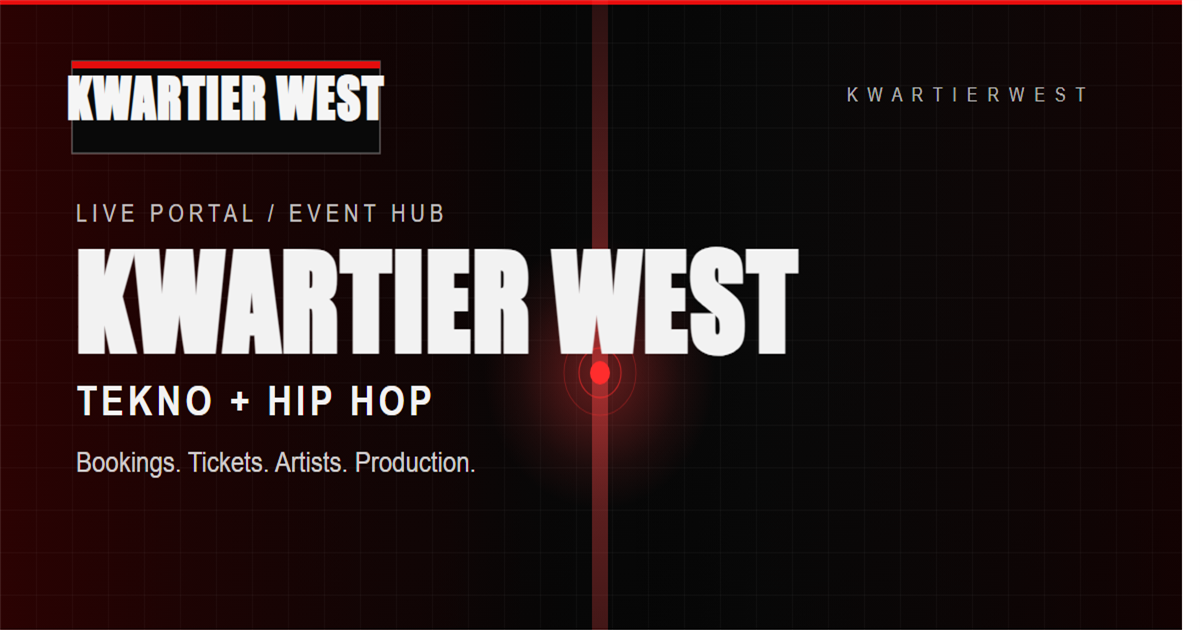
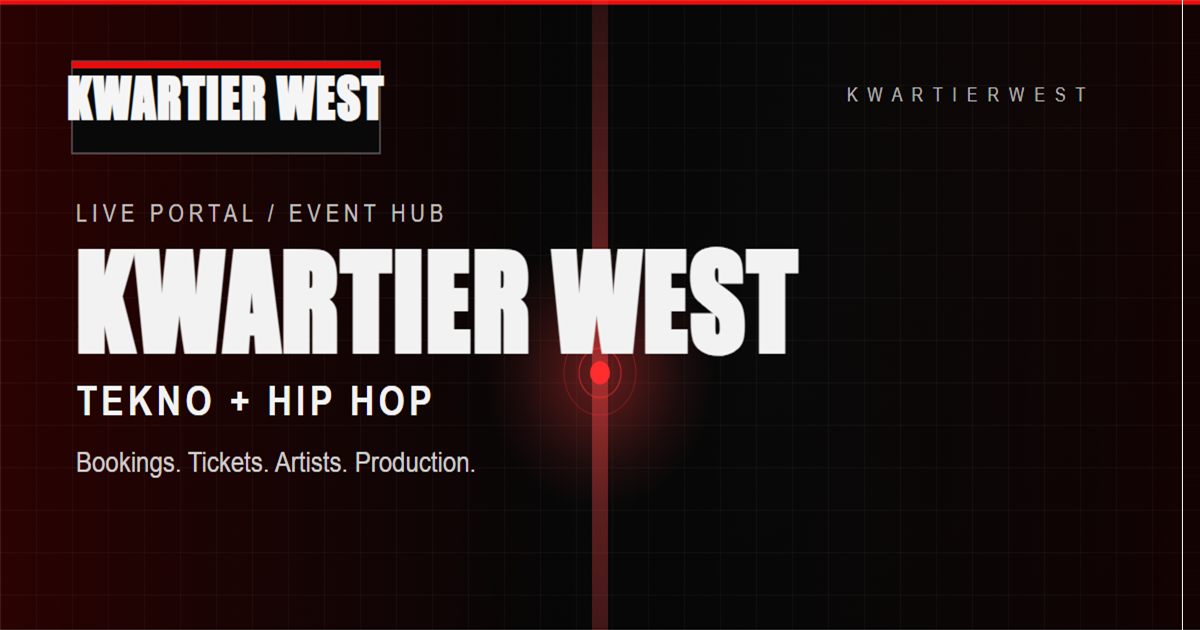
Fix OG right-edge artifact and unify OG metadata URLs

Changed region(s): [[0.9867, 0.0, 1.0, 1.0]]

diff --git a/pages/events/index.html b/pages/events/index.html
@@ -9,7 +9,8 @@
   <meta property="og:site_name" content="Kwartier West">
   <meta property="og:title" content="Kwartier West - Evenementen">
   <meta property="og:description" content="Evenementenhub met Tekno- en Hip hop-line-ups, tickets en officiele sociale bronnen.">
-  <meta property="og:image" content="/assets/og/og-cover.png">
+  <meta property="og:url" content="http://kwartierwest.be/pages/events/index.html">
+  <meta property="og:image" content="http://kwartierwest.be/assets/og/og-cover.png?v=20260225f">
   <meta property="og:image:type" content="image/png">
   <meta property="og:image:width" content="1200">
   <meta property="og:image:height" content="630">
@@ -17,7 +18,8 @@
   <meta name="twitter:card" content="summary_large_image">
   <meta name="twitter:title" content="Kwartier West - Evenementen">
   <meta name="twitter:description" content="Evenementenhub met Tekno- en Hip hop-line-ups, tickets en officiele sociale bronnen.">
-  <meta name="twitter:image" content="/assets/og/og-cover.png">
+  <meta name="twitter:image" content="http://kwartierwest.be/assets/og/og-cover.png?v=20260225f">
+  <link rel="canonical" href="http://kwartierwest.be/pages/events/index.html">
   <link rel="stylesheet" href="../../css/base.css?v=20260224j">
   <link rel="stylesheet" href="../../css/events.css?v=20260224a">
 </head>

diff --git a/index.html b/index.html
@@ -9,7 +9,8 @@
   <meta property="og:site_name" content="Kwartier West">
   <meta property="og:title" content="Kwartier West">
   <meta property="og:description" content="Kwartier West: Tekno- en Hip hop-collectieven, evenementen, boekingen en merch.">
-  <meta property="og:image" content="/assets/og/og-cover.png">
+  <meta property="og:url" content="http://kwartierwest.be/">
+  <meta property="og:image" content="http://kwartierwest.be/assets/og/og-cover.png?v=20260225f">
   <meta property="og:image:type" content="image/png">
   <meta property="og:image:width" content="1200">
   <meta property="og:image:height" content="630">
@@ -17,7 +18,8 @@
   <meta name="twitter:card" content="summary_large_image">
   <meta name="twitter:title" content="Kwartier West">
   <meta name="twitter:description" content="Kwartier West: Tekno- en Hip hop-collectieven, evenementen, boekingen en merch.">
-  <meta name="twitter:image" content="/assets/og/og-cover.png">
+  <meta name="twitter:image" content="http://kwartierwest.be/assets/og/og-cover.png?v=20260225f">
+  <link rel="canonical" href="http://kwartierwest.be/">
   <link rel="icon" href="/favicon.ico">
   <link rel="icon" type="image/png" sizes="32x32" href="/assets/icons/favicon-32x32.png">
   <link rel="icon" type="image/png" sizes="16x16" href="/assets/icons/favicon-16x16.png">

diff --git a/pages/booking/index.html b/pages/booking/index.html
@@ -9,7 +9,8 @@
   <meta property="og:site_name" content="Kwartier West">
   <meta property="og:title" content="Kwartier West - Centrale boekingsdesk">
   <meta property="og:description" content="Centrale boekingsdesk voor Tekno, Hip hop en volledige labelovernames.">
-  <meta property="og:image" content="/assets/og/og-cover.png">
+  <meta property="og:url" content="http://kwartierwest.be/pages/booking/index.html">
+  <meta property="og:image" content="http://kwartierwest.be/assets/og/og-cover.png?v=20260225f">
   <meta property="og:image:type" content="image/png">
   <meta property="og:image:width" content="1200">
   <meta property="og:image:height" content="630">
@@ -17,7 +18,8 @@
   <meta name="twitter:card" content="summary_large_image">
   <meta name="twitter:title" content="Kwartier West - Centrale boekingsdesk">
   <meta name="twitter:description" content="Centrale boekingsdesk voor Tekno, Hip hop en volledige labelovernames.">
-  <meta name="twitter:image" content="/assets/og/og-cover.png">
+  <meta name="twitter:image" content="http://kwartierwest.be/assets/og/og-cover.png?v=20260225f">
+  <link rel="canonical" href="http://kwartierwest.be/pages/booking/index.html">
   <link rel="stylesheet" href="../../css/base.css?v=20260224j">
 </head>
 <body class="kw-page">

diff --git a/pages/partners/index.html b/pages/partners/index.html
@@ -9,7 +9,8 @@
   <meta property="og:site_name" content="Kwartier West">
   <meta property="og:title" content="Kwartier West - Partners">
   <meta property="og:description" content="Vertrouwde partners van Kwartier West voor productie, visuals, sound en werking.">
-  <meta property="og:image" content="/assets/og/og-cover.png">
+  <meta property="og:url" content="http://kwartierwest.be/pages/partners/index.html">
+  <meta property="og:image" content="http://kwartierwest.be/assets/og/og-cover.png?v=20260225f">
   <meta property="og:image:type" content="image/png">
   <meta property="og:image:width" content="1200">
   <meta property="og:image:height" content="630">
@@ -17,7 +18,8 @@
   <meta name="twitter:card" content="summary_large_image">
   <meta name="twitter:title" content="Kwartier West - Partners">
   <meta name="twitter:description" content="Vertrouwde partners van Kwartier West voor productie, visuals, sound en werking.">
-  <meta name="twitter:image" content="/assets/og/og-cover.png">
+  <meta name="twitter:image" content="http://kwartierwest.be/assets/og/og-cover.png?v=20260225f">
+  <link rel="canonical" href="http://kwartierwest.be/pages/partners/index.html">
   <link rel="stylesheet" href="../../css/base.css?v=20260224j">
 </head>
 <body class="kw-page">

diff --git a/pages/hiphop/index.html b/pages/hiphop/index.html
@@ -9,7 +9,8 @@
   <meta property="og:site_name" content="Kwartier West">
   <meta property="og:title" content="Kwartier West - Hip hop">
   <meta property="og:description" content="Hip hop-collectief van Kwartier West: artiesten, evenementen en boekingen.">
-  <meta property="og:image" content="/assets/og/og-cover.png">
+  <meta property="og:url" content="http://kwartierwest.be/pages/hiphop/index.html">
+  <meta property="og:image" content="http://kwartierwest.be/assets/og/og-cover.png?v=20260225f">
   <meta property="og:image:type" content="image/png">
   <meta property="og:image:width" content="1200">
   <meta property="og:image:height" content="630">
@@ -17,7 +18,8 @@
   <meta name="twitter:card" content="summary_large_image">
   <meta name="twitter:title" content="Kwartier West - Hip hop">
   <meta name="twitter:description" content="Hip hop-collectief van Kwartier West: artiesten, evenementen en boekingen.">
-  <meta name="twitter:image" content="/assets/og/og-cover.png">
+  <meta name="twitter:image" content="http://kwartierwest.be/assets/og/og-cover.png?v=20260225f">
+  <link rel="canonical" href="http://kwartierwest.be/pages/hiphop/index.html">
   <link rel="stylesheet" href="../../css/base.css?v=20260224j">
 </head>
 <body class="kw-page kw-side-hiphop">

diff --git a/pages/contact/index.html b/pages/contact/index.html
@@ -9,7 +9,8 @@
   <meta property="og:site_name" content="Kwartier West">
   <meta property="og:title" content="Kwartier West - Contact">
   <meta property="og:description" content="Contacteer Kwartier West voor boekingen, partnerschappen en productievragen.">
-  <meta property="og:image" content="/assets/og/og-cover.png">
+  <meta property="og:url" content="http://kwartierwest.be/pages/contact/index.html">
+  <meta property="og:image" content="http://kwartierwest.be/assets/og/og-cover.png?v=20260225f">
   <meta property="og:image:type" content="image/png">
   <meta property="og:image:width" content="1200">
   <meta property="og:image:height" content="630">
@@ -17,7 +18,8 @@
   <meta name="twitter:card" content="summary_large_image">
   <meta name="twitter:title" content="Kwartier West - Contact">
   <meta name="twitter:description" content="Contacteer Kwartier West voor boekingen, partnerschappen en productievragen.">
-  <meta name="twitter:image" content="/assets/og/og-cover.png">
+  <meta name="twitter:image" content="http://kwartierwest.be/assets/og/og-cover.png?v=20260225f">
+  <link rel="canonical" href="http://kwartierwest.be/pages/contact/index.html">
   <link rel="stylesheet" href="../../css/base.css?v=20260224j">
 </head>
 <body class="kw-page">

diff --git a/pages/hiphop/booking.html b/pages/hiphop/booking.html
@@ -9,7 +9,8 @@
   <meta property="og:site_name" content="Kwartier West">
   <meta property="og:title" content="Kwartier West - Hip hop boeking">
   <meta property="og:description" content="Boek Hip hop-artiesten of het volledige Hip hop-collectief.">
-  <meta property="og:image" content="/assets/og/og-cover.png">
+  <meta property="og:url" content="http://kwartierwest.be/pages/hiphop/booking.html">
+  <meta property="og:image" content="http://kwartierwest.be/assets/og/og-cover.png?v=20260225f">
   <meta property="og:image:type" content="image/png">
   <meta property="og:image:width" content="1200">
   <meta property="og:image:height" content="630">
@@ -17,7 +18,8 @@
   <meta name="twitter:card" content="summary_large_image">
   <meta name="twitter:title" content="Kwartier West - Hip hop boeking">
   <meta name="twitter:description" content="Boek Hip hop-artiesten of het volledige Hip hop-collectief.">
-  <meta name="twitter:image" content="/assets/og/og-cover.png">
+  <meta name="twitter:image" content="http://kwartierwest.be/assets/og/og-cover.png?v=20260225f">
+  <link rel="canonical" href="http://kwartierwest.be/pages/hiphop/booking.html">
   <link rel="stylesheet" href="../../css/base.css?v=20260224j">
 </head>
 <body class="kw-page kw-side-hiphop">

diff --git a/pages/tekno/index.html b/pages/tekno/index.html
@@ -9,7 +9,8 @@
   <meta property="og:site_name" content="Kwartier West">
   <meta property="og:title" content="Kwartier West - Tekno">
   <meta property="og:description" content="Tekno-collectief van Kwartier West: artiesten, evenementen en boekingen.">
-  <meta property="og:image" content="/assets/og/og-cover.png">
+  <meta property="og:url" content="http://kwartierwest.be/pages/tekno/index.html">
+  <meta property="og:image" content="http://kwartierwest.be/assets/og/og-cover.png?v=20260225f">
   <meta property="og:image:type" content="image/png">
   <meta property="og:image:width" content="1200">
   <meta property="og:image:height" content="630">
@@ -17,7 +18,8 @@
   <meta name="twitter:card" content="summary_large_image">
   <meta name="twitter:title" content="Kwartier West - Tekno">
   <meta name="twitter:description" content="Tekno-collectief van Kwartier West: artiesten, evenementen en boekingen.">
-  <meta name="twitter:image" content="/assets/og/og-cover.png">
+  <meta name="twitter:image" content="http://kwartierwest.be/assets/og/og-cover.png?v=20260225f">
+  <link rel="canonical" href="http://kwartierwest.be/pages/tekno/index.html">
   <link rel="stylesheet" href="../../css/base.css?v=20260224j">
 </head>
 <body class="kw-page kw-side-tekno">

diff --git a/pages/hiphop/artist.html b/pages/hiphop/artist.html
@@ -9,7 +9,8 @@
   <meta property="og:site_name" content="Kwartier West">
   <meta property="og:title" content="Kwartier West - Hip hop artiest">
   <meta property="og:description" content="Detailpagina van Hip hop-artiest binnen Kwartier West.">
-  <meta property="og:image" content="/assets/og/og-cover.png">
+  <meta property="og:url" content="http://kwartierwest.be/pages/hiphop/artist.html">
+  <meta property="og:image" content="http://kwartierwest.be/assets/og/og-cover.png?v=20260225f">
   <meta property="og:image:type" content="image/png">
   <meta property="og:image:width" content="1200">
   <meta property="og:image:height" content="630">
@@ -17,7 +18,8 @@
   <meta name="twitter:card" content="summary_large_image">
   <meta name="twitter:title" content="Kwartier West - Hip hop artiest">
   <meta name="twitter:description" content="Detailpagina van Hip hop-artiest binnen Kwartier West.">
-  <meta name="twitter:image" content="/assets/og/og-cover.png">
+  <meta name="twitter:image" content="http://kwartierwest.be/assets/og/og-cover.png?v=20260225f">
+  <link rel="canonical" href="http://kwartierwest.be/pages/hiphop/artist.html">
   <link rel="stylesheet" href="../../css/base.css?v=20260224j">
 </head>
 <body class="kw-page kw-side-hiphop">

diff --git a/pages/tekno/booking.html b/pages/tekno/booking.html
@@ -9,7 +9,8 @@
   <meta property="og:site_name" content="Kwartier West">
   <meta property="og:title" content="Kwartier West - Tekno boeking">
   <meta property="og:description" content="Boek Tekno-artiesten of het volledige Tekno-collectief.">
-  <meta property="og:image" content="/assets/og/og-cover.png">
+  <meta property="og:url" content="http://kwartierwest.be/pages/tekno/booking.html">
+  <meta property="og:image" content="http://kwartierwest.be/assets/og/og-cover.png?v=20260225f">
   <meta property="og:image:type" content="image/png">
   <meta property="og:image:width" content="1200">
   <meta property="og:image:height" content="630">
@@ -17,7 +18,8 @@
   <meta name="twitter:card" content="summary_large_image">
   <meta name="twitter:title" content="Kwartier West - Tekno boeking">
   <meta name="twitter:description" content="Boek Tekno-artiesten of het volledige Tekno-collectief.">
-  <meta name="twitter:image" content="/assets/og/og-cover.png">
+  <meta name="twitter:image" content="http://kwartierwest.be/assets/og/og-cover.png?v=20260225f">
+  <link rel="canonical" href="http://kwartierwest.be/pages/tekno/booking.html">
   <link rel="stylesheet" href="../../css/base.css?v=20260224j">
 </head>
 <body class="kw-page kw-side-tekno">

diff --git a/pages/tekno/artist.html b/pages/tekno/artist.html
@@ -9,7 +9,8 @@
   <meta property="og:site_name" content="Kwartier West">
   <meta property="og:title" content="Kwartier West - Tekno artiest">
   <meta property="og:description" content="Detailpagina van Tekno-artiest binnen Kwartier West.">
-  <meta property="og:image" content="/assets/og/og-cover.png">
+  <meta property="og:url" content="http://kwartierwest.be/pages/tekno/artist.html">
+  <meta property="og:image" content="http://kwartierwest.be/assets/og/og-cover.png?v=20260225f">
   <meta property="og:image:type" content="image/png">
   <meta property="og:image:width" content="1200">
   <meta property="og:image:height" content="630">
@@ -17,7 +18,8 @@
   <meta name="twitter:card" content="summary_large_image">
   <meta name="twitter:title" content="Kwartier West - Tekno artiest">
   <meta name="twitter:description" content="Detailpagina van Tekno-artiest binnen Kwartier West.">
-  <meta name="twitter:image" content="/assets/og/og-cover.png">
+  <meta name="twitter:image" content="http://kwartierwest.be/assets/og/og-cover.png?v=20260225f">
+  <link rel="canonical" href="http://kwartierwest.be/pages/tekno/artist.html">
   <link rel="stylesheet" href="../../css/base.css?v=20260224j">
 </head>
 <body class="kw-page kw-side-tekno">

diff --git a/pages/manifest/index.html b/pages/manifest/index.html
@@ -9,7 +9,8 @@
   <meta property="og:site_name" content="Kwartier West">
   <meta property="og:title" content="Kwartier West - Manifest">
   <meta property="og:description" content="Manifest van Kwartier West: visie, waarden en werkwijze.">
-  <meta property="og:image" content="/assets/og/og-cover.png">
+  <meta property="og:url" content="http://kwartierwest.be/pages/manifest/index.html">
+  <meta property="og:image" content="http://kwartierwest.be/assets/og/og-cover.png?v=20260225f">
   <meta property="og:image:type" content="image/png">
   <meta property="og:image:width" content="1200">
   <meta property="og:image:height" content="630">
@@ -17,7 +18,8 @@
   <meta name="twitter:card" content="summary_large_image">
   <meta name="twitter:title" content="Kwartier West - Manifest">
   <meta name="twitter:description" content="Manifest van Kwartier West: visie, waarden en werkwijze.">
-  <meta name="twitter:image" content="/assets/og/og-cover.png">
+  <meta name="twitter:image" content="http://kwartierwest.be/assets/og/og-cover.png?v=20260225f">
+  <link rel="canonical" href="http://kwartierwest.be/pages/manifest/index.html">
   <link rel="stylesheet" href="../../css/base.css?v=20260224j">
 </head>
 <body class="kw-page">
